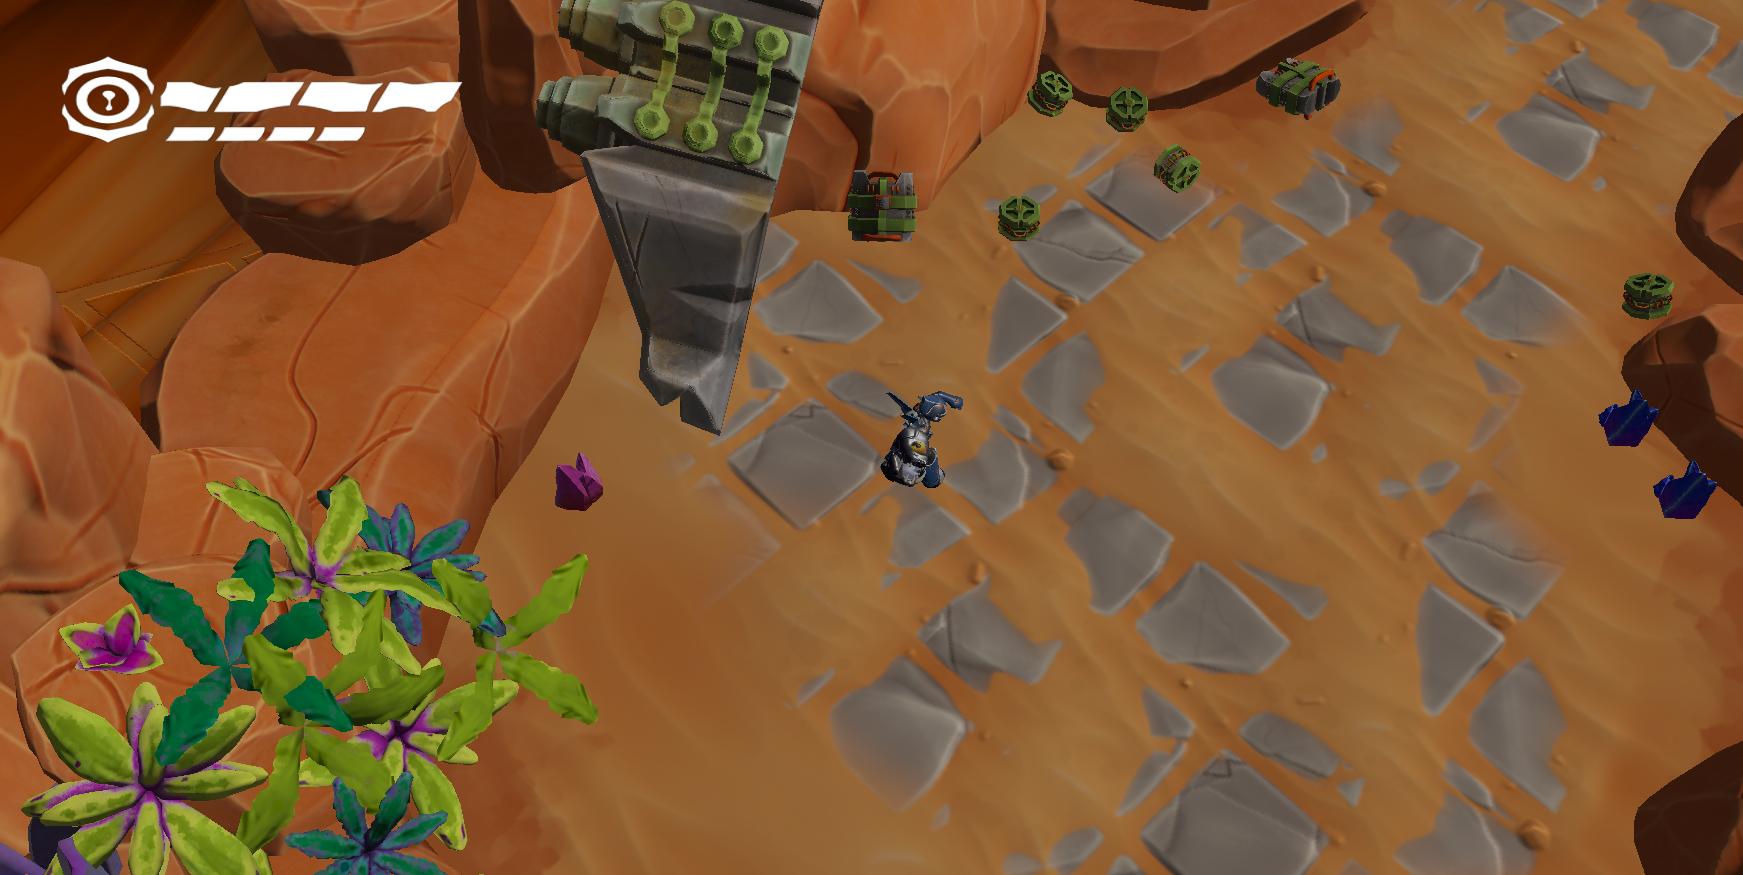
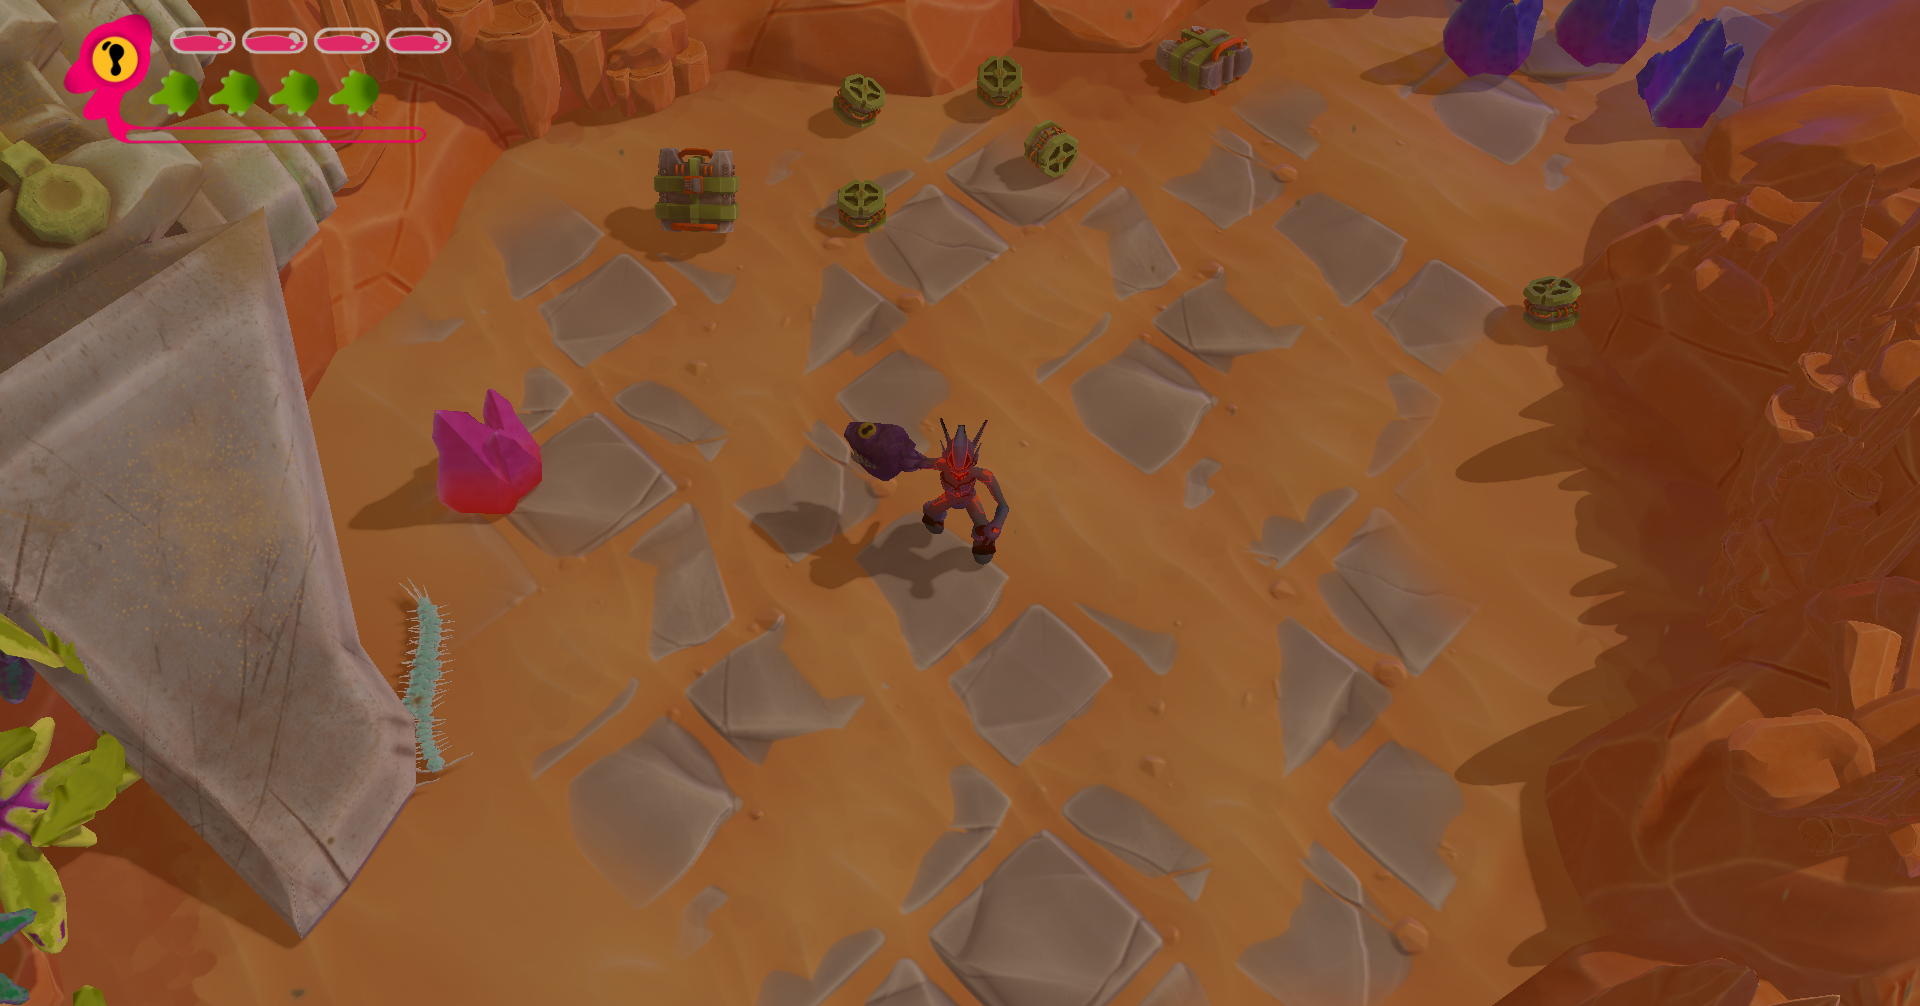
Update all screenshots with latest game build

diff --git a/index.html b/index.html
@@ -53,28 +53,33 @@
 
 									<!-- Full-width images with number and caption text -->
 									<div class="mySlides fade">
-										<div class="numbertext">1 / 5</div>
-										<img src="images/Screenshots/temple.png" style="width:100%"/>
+										<div class="numbertext">1 / 6</div>
+										<img src="images/Screenshots/temple2.png" style="width:100%"/>
 									</div>
 								
 									<div class="mySlides fade">
-										<div class="numbertext">2 / 5</div>
-										<img src="images/Screenshots/Dash.png" style="width:100%"/>
+										<div class="numbertext">2 / 6</div>
+										<img src="images/Screenshots/Dash2.png" style="width:100%"/>
 									</div>
 								
 									<div class="mySlides fade">
-										<div class="numbertext">3 / 5</div>
+										<div class="numbertext">3 / 6</div>
 										<img src="images/Screenshots/StartingArea.png" style="width:100%"/>
 									</div>
 
 									<div class="mySlides fade">
-										<div class="numbertext">4 / 5</div>
+										<div class="numbertext">4 / 6</div>
+										<img src="images/Screenshots/swarm2.png" style="width:100%"/>
+									</div>
+
+									<div class="mySlides fade">
+										<div class="numbertext">5 / 6</div>
 										<img src="images/TeamAConceptArt.png" style="width:100%"/>
 									</div>
 
 									<div class="mySlides fade">
-										<div class="numbertext">5 / 5</div>
-										<img src="images/TeamBBossConceptArt.png" style="width:100%"/>
+										<div class="numbertext">6 / 6</div>
+										<img src="images/Screenshots/TriggerCrystal2.png" style="width:100%"/>
 									</div>
 
 								
@@ -547,10 +552,10 @@
 								<h3>Images</h3>
 									<p><a href="images/Screenshots/Screenshots.zip">Download Images</a> </p>
 									<p>
-										<img style="max-width: 100%;" src="images/Screenshots/TheGate.png" alt="" />
-										<img style="max-width: 100%;" src="images/Screenshots/BigGrystal.png" alt="" />
-										<img style="max-width: 100%;" src="images/Screenshots/CrystalPlatforms.png" alt="" />
-										<img style="max-width: 100%;" src="images/Screenshots/TriggerCrystal.png" alt="" />
+										<img style="max-width: 100%;" src="images/Screenshots/TheGate2.png" alt="" />
+										<img style="max-width: 100%;" src="images/Screenshots/BigGrystal2.png" alt="" />
+										<img style="max-width: 100%;" src="images/Screenshots/CrystalPlatforms2.png" alt="" />
+										<img style="max-width: 100%;" src="images/Screenshots/TriggerCrystal2.png" alt="" />
 									</p>
 
 								<h3>Branding</h3>
